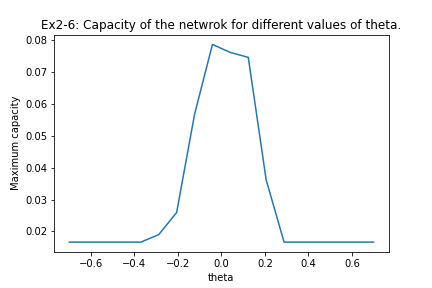
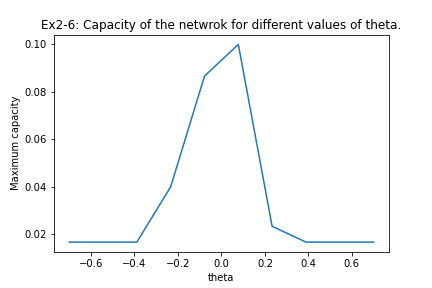
:))))))))

diff --git a/Part2/Hop-Project-2.py b/Part2/Hop-Project-2.py
@@ -32,9 +32,6 @@ def hamming_distance(x,y):
 
 def map_function(theta_0):
     def map_function_theta(sigma_t0, w):
-#        sigma_t1=np.zeros(N)
-#        for i in range(N):
-#            sigma_t1[i]=0.5 * (1 + np.sign(np.dot(w[i],sigma_t0) - np.sum(w[i])/2))
         sigma_t1=[0.5 * (1 + np.sign(np.dot(wi,sigma_t0) - theta_0)) for wi in w]
         return sigma_t1
     return map_function_theta
@@ -72,6 +69,29 @@ def pattern_mean_error(hamming_distance, m_vals, n_runs, flip_rate, N,
         means[i]=mean_error
     return means
 
+def retrievness(hamming_distance, m_vals, n_runs, flip_rate, N, 
+                       a, b, opt_theta, theta_0 ):
+    n_flips = int(flip_rate*N)
+    no_patterns=len(m_vals)
+    means=np.zeros(no_patterns)
+    no_retrieved=np.zeros(no_patterns)
+    for i in range(no_patterns):
+        theta = (1-opt_theta)*theta_0
+        net, random_patterns = hop_network(N,m_vals[i],a,b,theta)
+        mean_error=0
+        correctly_retrieved=0
+        for pattern in random_patterns:
+            new_pattern=pattern*2-1
+            initial_state = pattern_tools.flip_n(new_pattern, n_flips)
+            initial_state=(initial_state + 1)/2
+            net.set_state_from_pattern(initial_state)
+            net.run(n_runs)
+            correctly_retrieved+=(hamming_distance(net.state,pattern)<0.05)
+        no_retrieved[i] = sum(correctly_retrieved)/m_vals[i]
+    Capacity=int(np.interp(0.5, np.flip(no_retrieved), np.flip(m_vals)))
+    return Capacity
+
+
 
 N = 300
 a = 0.5
@@ -97,17 +117,35 @@ def ex2_5():
     plt.show()
     print(np.interp(0.05, mean_error, m_vals))
 
+#x,y=retrievness(hamming_distance, m_vals=m_vals, n_runs=n_runs, N=N, flip_rate=flip_rate, 
+#                              a=a, b=b, opt_theta=1, theta_0=theta)
+
+def ex2_5_2():
+    theta_list=np.linspace(-5, 5, num = 10)
+    capacity=np.zeros(len(theta_list))
+    
+
+    for i, theta in enumerate(theta_list):
+        capacity[i]=retrievness(hamming_distance, m_vals=m_vals, n_runs=n_runs, N=N, flip_rate=flip_rate, 
+                                      a=a, b=b, opt_theta=1, theta_0=theta)/N
+
+        
+    plt.plot(theta_list, capacity)
+    plt.title("Ex2-6: Capacity of the netwrok for different values of theta.")
+    plt.xlabel("theta")
+    plt.ylabel("Maximum capacity")
+    plt.savefig("plots/ex2-6.png")
+    plt.show()
 
 def ex2_6():
-    theta_list=np.linspace(-0.7, 0.7, num = 18)
+    theta_list=np.linspace(-0.7, 0.7, num = 10)
     capacity=np.zeros(len(theta_list))
     mean_error=0
     
 
     for i, theta in enumerate(theta_list):
-        mean_error=pattern_mean_error(hamming_distance, m_vals=m_vals, n_runs=n_runs, N=N, flip_rate=flip_rate, 
-                                      a=a, b=b, opt_theta=0, theta_0=theta)
-        capacity[i] = np.interp(0.05, mean_error, m_vals)/N
+        capacity[i]=retrievness(hamming_distance, m_vals=m_vals, n_runs=n_runs, N=N, flip_rate=flip_rate, 
+                                      a=a, b=b, opt_theta=0, theta_0=theta)/N
 
         
     plt.plot(theta_list, capacity)
@@ -127,9 +165,8 @@ def ex2_7():
     
     
     for i, theta in enumerate(theta_list):
-        mean_error=pattern_mean_error(hamming_distance, m_vals=m_vals, n_runs=n_runs, N=N, flip_rate=flip_rate, 
-                                      a=a, b=b, opt_theta=0, theta_0=theta)
-        capacity[i] = np.interp(0.05, mean_error, m_vals)/N
+        capacity[i]=retrievness(hamming_distance, m_vals=m_vals, n_runs=n_runs, N=N, flip_rate=flip_rate, 
+                                      a=a, b=b, opt_theta=0, theta_0=theta)/N
         
     plt.plot(theta_list, capacity)
     plt.title("Ex2-7: Capacity of the netwrok for different values of theta for a=b=0.1.")
@@ -148,9 +185,8 @@ def ex2_7_2():
     
     
     for i, theta in enumerate(theta_list):
-        mean_error=pattern_mean_error(hamming_distance, m_vals=m_vals, n_runs=n_runs, N=N, flip_rate=flip_rate, 
-                                      a=a, b=b, opt_theta=0, theta_0=theta)
-        capacity[i] = np.interp(0.05, mean_error, m_vals)/N
+        capacity[i]=retrievness(hamming_distance, m_vals=m_vals, n_runs=n_runs, N=N, flip_rate=flip_rate, 
+                                      a=a, b=b, opt_theta=0, theta_0=theta)/N
     
     plt.plot(theta_list, capacity)
     plt.title("Ex2-7: Capacity of the netwrok for different values of theta for a=b=0.05.")
@@ -168,9 +204,8 @@ def ex2_8():
     
     for j, b in enumerate(b_list):
         for i, theta in enumerate(theta_list):
-            mean_error=pattern_mean_error(hamming_distance, m_vals=m_vals, n_runs=n_runs, N=N, flip_rate=flip_rate, 
-                                          a=a, b=b, opt_theta=0, theta_0=theta)
-            capacity[j,i] = np.interp(0.05, mean_error, m_vals)/N
+            capacity[j,i] = retrievness(hamming_distance, m_vals=m_vals, n_runs=n_runs, N=N, flip_rate=flip_rate, 
+                                          a=a, b=b, opt_theta=0, theta_0=theta)/N
     
     plt.figure('Figure 2.8')
     for j, b in enumerate(b_list):
@@ -186,8 +221,9 @@ def ex2_8():
 
 
 #ex2_5()
-#ex2_6()
-#ex2_7()
-#ex2_7_2()
-#ex2_8()
+#ex2_5_2()
+ex2_6()
+ex2_7()
+ex2_7_2()
+ex2_8()
 
